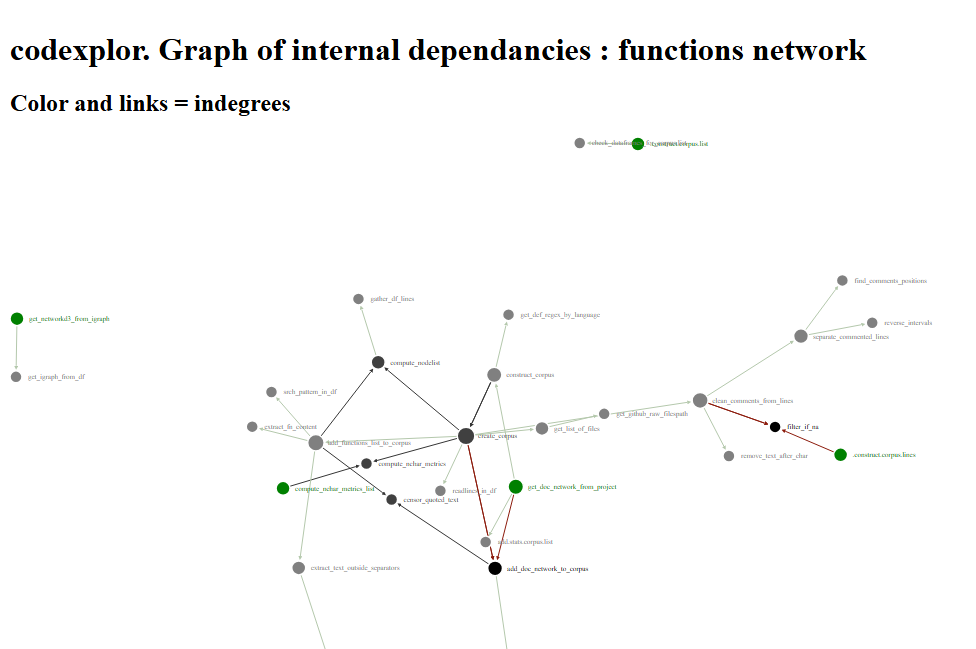
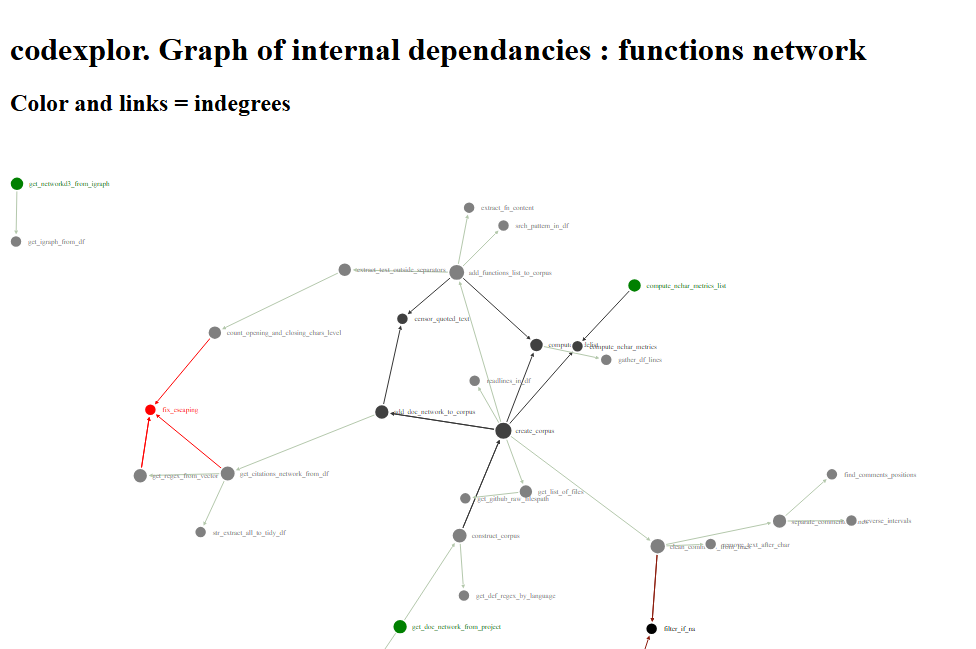
.

diff --git a/man/figures/network_codexplor_fn.html b/man/figures/network_codexplor_fn.html
@@ -1231,11 +1231,11 @@ return function(){for(var n=0,e=0;e<t;++e)n+=Math.random();return n}},um=functio
 <div id="htmlwidget_container">
   <h1>codexplor. Graph of internal dependancies : functions network</h1>
   <h2>Color and links = indegrees</h2>
-  <div class="forceNetwork html-widget html-fill-item" id="htmlwidget-92d4a17f8693e915f1dd" style="width:960px;height:500px;"></div>
+  <div class="forceNetwork html-widget html-fill-item" id="htmlwidget-be5cf2078027d51ddfe0" style="width:960px;height:500px;"></div>
   <div style="position:floating; top:10px; left:10px; background:white; padding:10px; border:0px;">
   <strong>Colors (indegree)</strong><br></div>
 </div>
-<script type="application/json" data-for="htmlwidget-92d4a17f8693e915f1dd">{"x":{"links":{"source":[9,6,9,6,6,0,1,2,6,12,6,1,6,9,15,5,5,1,1,3,4,4,13,11,11,14,8,7,0,5,16,10,6,8,6,4,13,4,1,8],"target":[29,0,0,0,1,17,17,20,4,25,25,7,7,5,14,6,6,19,15,21,21,21,31,27,27,27,27,26,8,23,33,30,16,11,24,22,32,13,18,28],"colour":["#B4C8AC","#8C1B0C","#8C1B0C","#8C1B0C","#B4C8AC","#353535","#353535","#B4C8AC","#B4C8AC","#353535","#353535","#353535","#353535","#B4C8AC","#B4C8AC","#353535","#353535","#B4C8AC","#B4C8AC","#8C1B0C","#8C1B0C","#8C1B0C","#B4C8AC","#FF0000","#FF0000","#FF0000","#FF0000","#B4C8AC","#B4C8AC","#B4C8AC","#B4C8AC","#B4C8AC","#B4C8AC","#B4C8AC","#B4C8AC","#B4C8AC","#B4C8AC","#B4C8AC","#B4C8AC","#B4C8AC"]},"nodes":{"name":["add_doc_network_to_corpus","add_functions_list_to_corpus",".construct.corpus.list",".construct.corpus.lines","clean_comments_from_lines","construct_corpus","create_corpus","compute_nodelist","get_citations_network_from_df","get_doc_network_from_project","get_networkd3_from_igraph","get_regex_from_vector","compute_nchar_metrics_list","separate_commented_lines","count_opening_and_closing_chars_level","extract_text_outside_separators","get_list_of_files","censor_quoted_text","srch_pattern_in_df","extract_fn_content","check_dataframes_for_corpus.list","filter_if_na","remove_text_after_char","get_def_regex_by_language","readlines_in_df","compute_nchar_metrics","gather_df_lines","fix_escaping","str_extract_all_to_tidy_df","add.stats.corpus.list","get_igraph_from_df","find_comments_positions","reverse_intervals","get_github_raw_filespath"],"group":[3,1,0,0,1,1,2,2,1,0,0,1,0,1,1,1,1,2,1,1,1,3,1,1,1,2,1,4,1,1,1,1,1,1],"nodesize":[2,5,1,1,4,3,8,1,3,3,1,2,1,2,1,1,1,0,0,0,0,0,0,0,0,0,0,0,0,0,0,0,0,0]},"options":{"NodeID":"name","Group":"indegree","colourScale":"d3.scaleLinear().domain([0, 1, 3, 4]).range([\"green\", \"grey\", \"black\", \"red\"]).clamp(true);","fontSize":7,"fontFamily":"serif","clickTextSize":17.5,"linkDistance":50,"linkWidth":"function(d) { return 1; }","charge":-200,"opacity":1,"zoom":true,"legend":false,"arrows":true,"nodesize":true,"radiusCalculation":" Math.sqrt(d.nodesize)+6","bounded":true,"opacityNoHover":0.9,"clickAction":null}},"evals":[],"jsHooks":[]}</script>
-<script type="application/htmlwidget-sizing" data-for="htmlwidget-92d4a17f8693e915f1dd">{"viewer":{"width":450,"height":350,"padding":10,"fill":true},"browser":{"width":960,"height":500,"padding":10,"fill":true}}</script>
+<script type="application/json" data-for="htmlwidget-be5cf2078027d51ddfe0">{"x":{"links":{"source":[0,7,7,7,1,2,3,7,12,7,2,7,0,15,6,6,2,2,4,5,5,13,11,14,11,9,8,1,6,16,10,7,9,7,5,13,5,2,9],"target":[17,1,1,2,18,18,21,5,26,26,8,8,6,14,7,7,20,15,22,22,22,31,28,28,28,28,27,9,24,33,30,16,11,25,23,32,13,19,29],"colour":["#B4C8AC","#353535","#353535","#B4C8AC","#353535","#353535","#B4C8AC","#B4C8AC","#353535","#353535","#353535","#353535","#B4C8AC","#B4C8AC","#353535","#353535","#B4C8AC","#B4C8AC","#8C1B0C","#8C1B0C","#8C1B0C","#B4C8AC","#FF0000","#FF0000","#FF0000","#FF0000","#B4C8AC","#B4C8AC","#B4C8AC","#B4C8AC","#B4C8AC","#B4C8AC","#B4C8AC","#B4C8AC","#B4C8AC","#B4C8AC","#B4C8AC","#B4C8AC","#B4C8AC"]},"nodes":{"name":["get_doc_network_from_project","add_doc_network_to_corpus","add_functions_list_to_corpus",".construct.corpus.list",".construct.corpus.lines","clean_comments_from_lines","construct_corpus","create_corpus","compute_nodelist","get_citations_network_from_df","get_networkd3_from_igraph","get_regex_from_vector","compute_nchar_metrics_list","separate_commented_lines","count_opening_and_closing_chars_level","extract_text_outside_separators","get_list_of_files","add.stats.corpus.list","censor_quoted_text","srch_pattern_in_df","extract_fn_content","check_dataframes_for_corpus.list","filter_if_na","remove_text_after_char","get_def_regex_by_language","readlines_in_df","compute_nchar_metrics","gather_df_lines","fix_escaping","str_extract_all_to_tidy_df","get_igraph_from_df","find_comments_positions","reverse_intervals","get_github_raw_filespath"],"group":[0,2,1,0,0,1,1,2,2,1,0,1,0,1,1,1,1,1,2,1,1,1,3,1,1,1,2,1,4,1,1,1,1,1],"nodesize":[2,2,5,1,1,4,3,8,1,3,1,2,1,2,1,1,1,0,0,0,0,0,0,0,0,0,0,0,0,0,0,0,0,0]},"options":{"NodeID":"name","Group":"indegree","colourScale":"d3.scaleLinear().domain([0, 1, 3, 4]).range([\"green\", \"grey\", \"black\", \"red\"]).clamp(true);","fontSize":7,"fontFamily":"serif","clickTextSize":17.5,"linkDistance":50,"linkWidth":"function(d) { return 1; }","charge":-200,"opacity":1,"zoom":true,"legend":false,"arrows":true,"nodesize":true,"radiusCalculation":" Math.sqrt(d.nodesize)+6","bounded":true,"opacityNoHover":0.9,"clickAction":null}},"evals":[],"jsHooks":[]}</script>
+<script type="application/htmlwidget-sizing" data-for="htmlwidget-be5cf2078027d51ddfe0">{"viewer":{"width":450,"height":350,"padding":10,"fill":true},"browser":{"width":960,"height":500,"padding":10,"fill":true}}</script>
 </body>
 </html>

diff --git a/README.md b/README.md
@@ -107,12 +107,12 @@ corpus <- construct_corpus(
     
 str(corpus, max.level = 1)
 #> List of 6
-#>  $ codes            :Classes 'corpus.lines' and 'data.frame':    1749 obs. of  9 variables:
+#>  $ codes            :Classes 'corpus.lines' and 'data.frame':    1747 obs. of  9 variables:
 #>  $ comments         :Classes 'corpus.lines' and 'data.frame':    1195 obs. of  8 variables:
 #>  $ files            :Classes 'corpus.nodelist' and 'data.frame': 28 obs. of  8 variables:
 #>  $ functions        :Classes 'corpus.nodelist' and 'data.frame': 41 obs. of  6 variables:
-#>  $ functions.network:Classes 'citations.network', 'internal.dependancies' and 'data.frame':  40 obs. of  4 variables:
-#>  $ documents.network:Classes 'citations.network', 'internal.dependancies' and 'data.frame':  34 obs. of  4 variables:
+#>  $ functions.network:Classes 'citations.network', 'internal.dependancies' and 'data.frame':  39 obs. of  4 variables:
+#>  $ documents.network:Classes 'citations.network', 'internal.dependancies' and 'data.frame':  33 obs. of  4 variables:
 #>  - attr(*, "class")= chr [1:2] "list" "corpus.list"
 #>  - attr(*, "date_creation")= Date[1:1], format: "2025-03-14"
 #>  - attr(*, "have_citations_network")= logi TRUE
@@ -155,7 +155,7 @@ project, accordingly to subanalysis tools.
 | Quick example | Underlying details |
 |:---|:---|
 | Turn a programming project into a corpus and look at a dataviz of the files : [vignette of example of documents network](https://clement-lvd.github.io/codexplor/articles/vignette_analyse_citations_network_from_project.html) | Construct a corpus : [vignette of `construct_corpus()`](https://clement-lvd.github.io/codexplor/articles/vignette_construct_corpus.html) |
-|  | Understand the citations.network of internal dependancies : [vignette of `citations.network` `dataframe`](https://clement-lvd.github.io/codexplor/articles/vignette_citations.network_df_of_internal.dependencies.html) |
+|  | Understand the `citations.network` of `internaldependencies` : [vignette of `citations.network` `dataframe`](https://clement-lvd.github.io/codexplor/articles/vignette_citations.network_df_of_internal.dependencies.html) |
 
 `codexplor` also offers helper functions, e.g., for create and filter a
 network with the `igraph` package, see the [vignette of helper functions
